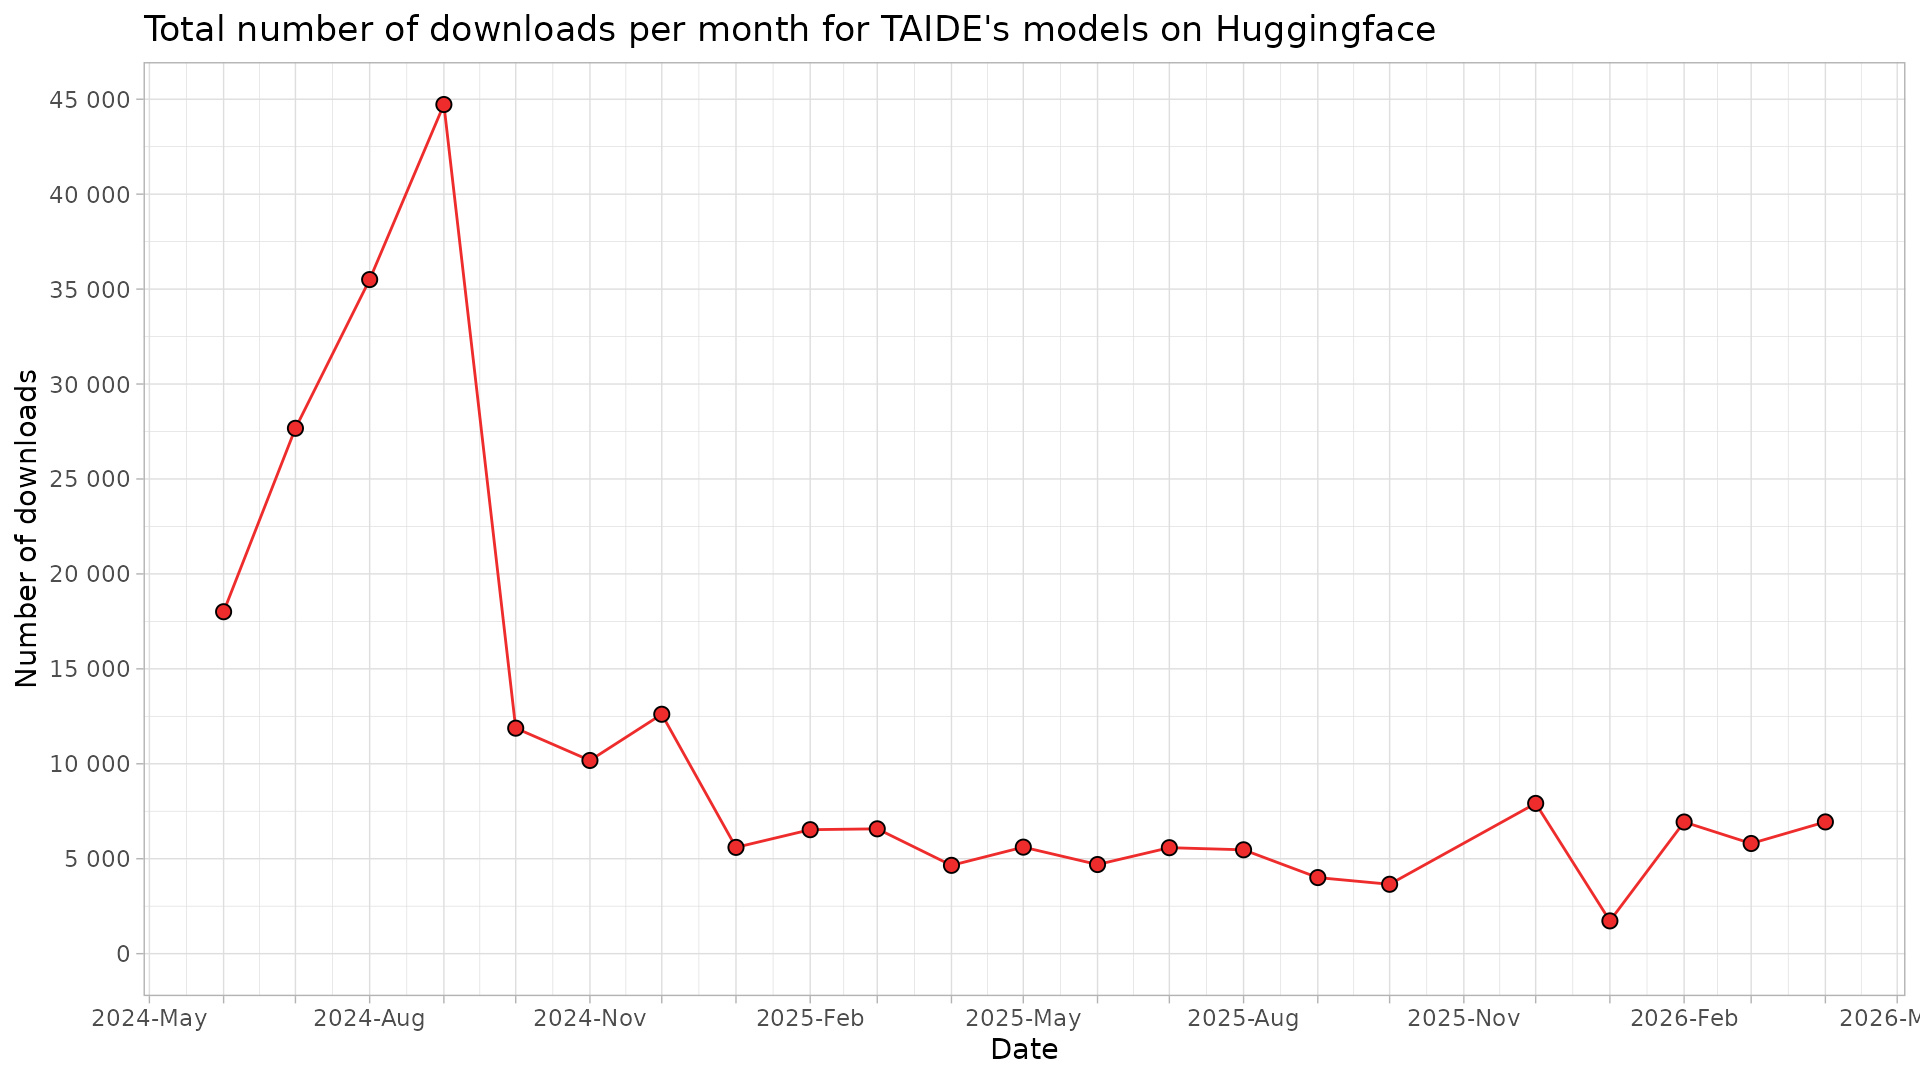
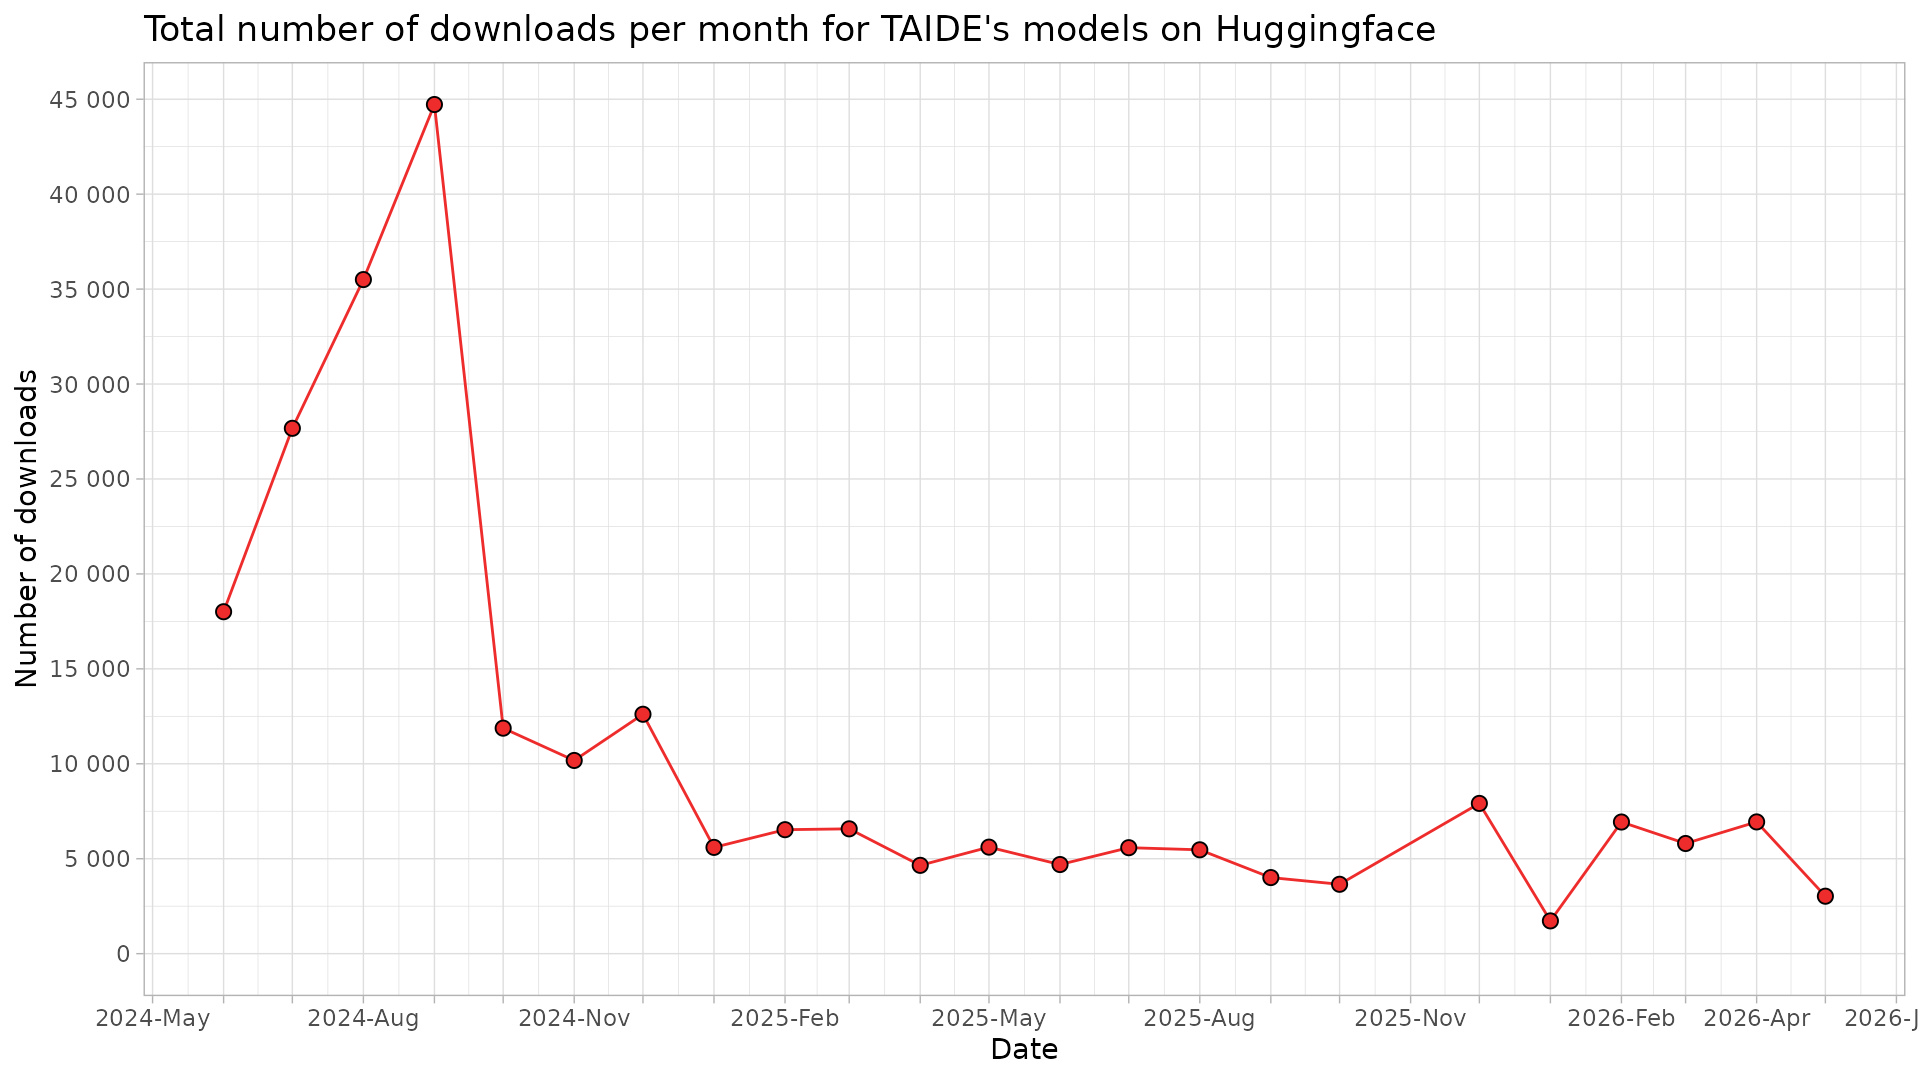
update

diff --git a/README.md b/README.md
@@ -11,18 +11,18 @@ Script is run monthly, and a monthly `csv`-file outputted to `/data` folder.
 !["Huggingface downloads by model plot."](https://github.com/nctu6/huggingface_stats/blob/main/plots/downloads_by_model.jpg)
 
 ## Table of downloads
-|model_name                          | downloadsAllTime| 2026-04| 2026-03| 2026-02| 2026-01| 2025-12| 2025-10| 2025-09| 2025-08| 2025-07| 2025-06| 2025-05| 2025-04| 2025-03| 2025-02| 2025-01| 2024-12| 2024-11| 2024-10| 2024-09| 2024-08| 2024-07| 2024-06|
-|:-----------------------------------|----------------:|-------:|-------:|-------:|-------:|-------:|-------:|-------:|-------:|-------:|-------:|-------:|-------:|-------:|-------:|-------:|-------:|-------:|-------:|-------:|-------:|-------:|-------:|
-|Llama3-TAIDE-LX-8B-Chat-Alpha1      |           119413|    4444|    4270|     319|     337|    3073|     346|     171|     348|    1416|     446|    1549|    1675|    3484|    4922|    3122|    8215|    5272|    5042|   21499|   27164|   11808|   10491|
-|TAIDE-LX-7B-Chat                    |            63494|      87|       8|     383|      82|     290|     437|     184|     276|    1228|     776|     591|     527|    1045|     909|    1036|    1455|    3774|    6130|   21600|    3495|   14122|    5059|
-|Llama-3.1-TAIDE-LX-8B-Chat          |            25241|     509|     728|     313|     471|    3281|    1339|    1774|    4689|    2699|    3139|    2770|    1975|    1554|       0|       0|       0|       0|       0|       0|       0|       0|       0|
-|TAIDE-LX-7B                         |            13826|     113|      45|      26|      39|      73|      42|      27|      48|     141|     222|     558|     338|     145|     215|    1150|    2491|     463|     215|     860|    4063|    1098|    1454|
-|Gemma-3-TAIDE-12b-Chat              |            11295|     111|     340|    5816|     745|    1141|    1369|    1763|      10|       0|       0|       0|       0|       0|       0|       0|       0|       0|       0|       0|       0|       0|       0|
-|Llama3-TAIDE-LX-8B-Chat-Alpha1-4bit |             4302|      20|      22|      40|      28|      37|      92|      51|      76|      63|      72|     102|      99|     252|     172|     185|     312|     444|     301|     527|     324|     412|     671|
-|TAIDE-LX-7B-Chat-4bit               |             2137|      27|      17|      36|      24|      18|      29|      37|      22|      34|      39|      40|      37|      94|     311|     104|     135|     217|     107|     194|     148|     208|     259|
-|Gemma-3-TAIDE-12b-Chat-2602         |             1999|    1627|     372|       0|       0|       0|       0|       0|       0|       0|       0|       0|       0|       0|       0|       0|       0|       0|       0|       0|       0|       0|       0|
-|b.11.0.0                            |              355|       0|       0|       0|       0|       0|       0|       0|       0|       0|       0|       0|       0|       0|       0|       0|       0|       5|       0|       7|     302|       5|      36|
-|llava_llama3_8b_clip336_e           |              115|       0|       0|       0|       0|       0|       0|       0|       0|       0|       0|       0|       0|       0|       0|       0|       0|       0|      81|      34|       0|       0|       0|
-|a.2.0.0                             |               24|       0|       0|       0|       0|       0|       0|       0|       0|       0|       0|       0|       0|       0|       0|       0|       0|       0|       0|       0|       0|       0|      24|
-|e.1.1.0                             |               19|       0|       0|       0|       0|       0|       0|       0|       0|       0|       0|       0|       0|       0|       0|       0|       0|       0|       0|       0|       5|       0|      14|
-|b.1.0.0                             |               15|       0|       0|       0|       0|       0|       0|       0|       0|       0|       0|       0|       0|       0|       0|       0|       0|       0|       0|       0|       0|      15|       0|
+|model_name                          | downloadsAllTime| 2026-05| 2026-04| 2026-03| 2026-02| 2026-01| 2025-12| 2025-10| 2025-09| 2025-08| 2025-07| 2025-06| 2025-05| 2025-04| 2025-03| 2025-02| 2025-01| 2024-12| 2024-11| 2024-10| 2024-09| 2024-08| 2024-07| 2024-06|
+|:-----------------------------------|----------------:|-------:|-------:|-------:|-------:|-------:|-------:|-------:|-------:|-------:|-------:|-------:|-------:|-------:|-------:|-------:|-------:|-------:|-------:|-------:|-------:|-------:|-------:|-------:|
+|Llama3-TAIDE-LX-8B-Chat-Alpha1      |           120190|     777|    4444|    4270|     319|     337|    3073|     346|     171|     348|    1416|     446|    1549|    1675|    3484|    4922|    3122|    8215|    5272|    5042|   21499|   27164|   11808|   10491|
+|TAIDE-LX-7B-Chat                    |            63629|     135|      87|       8|     383|      82|     290|     437|     184|     276|    1228|     776|     591|     527|    1045|     909|    1036|    1455|    3774|    6130|   21600|    3495|   14122|    5059|
+|Llama-3.1-TAIDE-LX-8B-Chat          |            25843|     602|     509|     728|     313|     471|    3281|    1339|    1774|    4689|    2699|    3139|    2770|    1975|    1554|       0|       0|       0|       0|       0|       0|       0|       0|       0|
+|TAIDE-LX-7B                         |            13928|     102|     113|      45|      26|      39|      73|      42|      27|      48|     141|     222|     558|     338|     145|     215|    1150|    2491|     463|     215|     860|    4063|    1098|    1454|
+|Gemma-3-TAIDE-12b-Chat              |            11555|     260|     111|     340|    5816|     745|    1141|    1369|    1763|      10|       0|       0|       0|       0|       0|       0|       0|       0|       0|       0|       0|       0|       0|       0|
+|Llama3-TAIDE-LX-8B-Chat-Alpha1-4bit |             4310|       8|      20|      22|      40|      28|      37|      92|      51|      76|      63|      72|     102|      99|     252|     172|     185|     312|     444|     301|     527|     324|     412|     671|
+|Gemma-3-TAIDE-12b-Chat-2602         |             3084|    1085|    1627|     372|       0|       0|       0|       0|       0|       0|       0|       0|       0|       0|       0|       0|       0|       0|       0|       0|       0|       0|       0|       0|
+|TAIDE-LX-7B-Chat-4bit               |             2194|      57|      27|      17|      36|      24|      18|      29|      37|      22|      34|      39|      40|      37|      94|     311|     104|     135|     217|     107|     194|     148|     208|     259|
+|b.11.0.0                            |              355|       0|       0|       0|       0|       0|       0|       0|       0|       0|       0|       0|       0|       0|       0|       0|       0|       0|       5|       0|       7|     302|       5|      36|
+|llava_llama3_8b_clip336_e           |              115|       0|       0|       0|       0|       0|       0|       0|       0|       0|       0|       0|       0|       0|       0|       0|       0|       0|       0|      81|      34|       0|       0|       0|
+|a.2.0.0                             |               24|       0|       0|       0|       0|       0|       0|       0|       0|       0|       0|       0|       0|       0|       0|       0|       0|       0|       0|       0|       0|       0|       0|      24|
+|e.1.1.0                             |               19|       0|       0|       0|       0|       0|       0|       0|       0|       0|       0|       0|       0|       0|       0|       0|       0|       0|       0|       0|       0|       5|       0|      14|
+|b.1.0.0                             |               15|       0|       0|       0|       0|       0|       0|       0|       0|       0|       0|       0|       0|       0|       0|       0|       0|       0|       0|       0|       0|       0|      15|       0|
